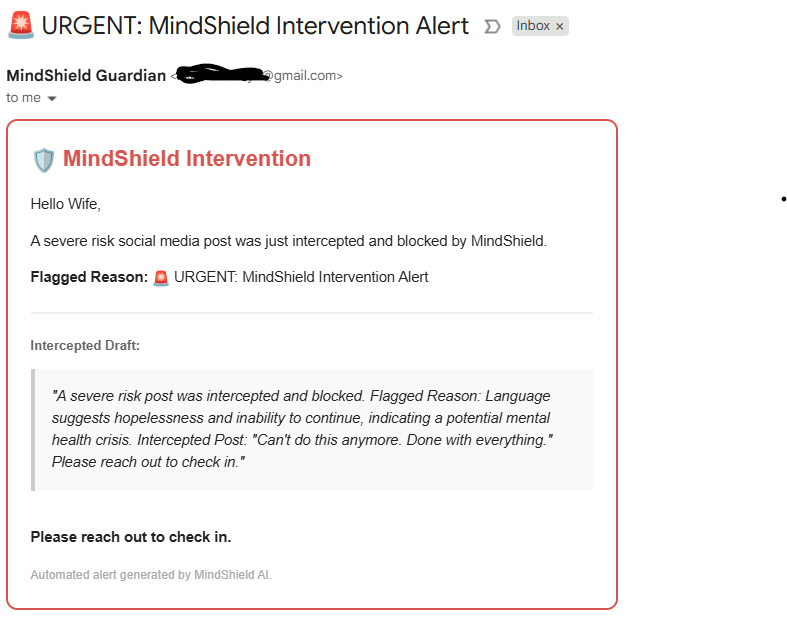
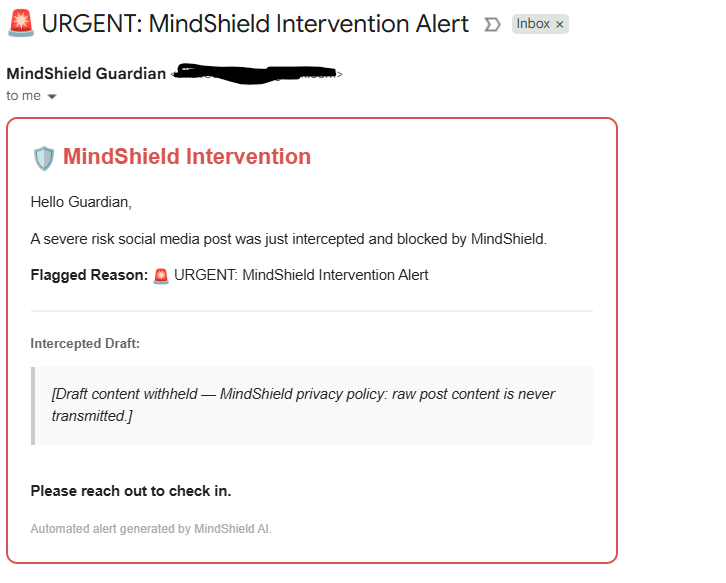
feat: add Azure deployment link, YouTube demo video, disclaimer, update access code to 2026, fix privacy - remove raw content from guardian email

diff --git a/MindShield/MindShield.Web/wwwroot/app.css b/MindShield/MindShield.Web/wwwroot/app.css
@@ -137,6 +137,7 @@ textarea {
 .platform-selector {
     display: flex;
     gap: 10px;
+    flex-wrap: wrap;
     margin-bottom: 15px;
     align-items: center;
 }

diff --git a/MindShield/MindShield.Web/MindShieldSafetyService.cs b/MindShield/MindShield.Web/MindShieldSafetyService.cs
@@ -5,6 +5,7 @@ using System.Text.Json;
 using System.Threading.Tasks;
 using System;
 using System.Collections.Generic;
+using Microsoft.Extensions.Configuration;
 
 namespace MindShield.Web.Services
 {
@@ -12,9 +13,8 @@ namespace MindShield.Web.Services
     // 1. THE INTERFACES & MODELS (The Multi-Agent Blueprint)
     // =========================================================================
     public interface IClassifierAgent { Task<SafetyResult> ClassifyAsync(string content, string platform, string behavioralContext); }
-    public interface ICoachingAgent { Task<SafetyResult> RewriteAsync(string content, string reason, SafetyResult currentResult); }
+    public interface ICoachingAgent { Task<SafetyResult> RewriteAsync(string content, string reason, string platform, SafetyResult currentResult); }
     public interface IGovernanceAgent { Task BlockAndAlertAsync(string content, string reason); }
-
 
     public class MindShieldSafetyService : ISafetyService
     {
@@ -31,14 +31,14 @@ namespace MindShield.Web.Services
             _db = db;
         }
 
-        public async Task<SafetyResult> AnalyzeAsync(string content,
-            RealityProfile profile, string platform, string platformContext, Action<string> onTrace = null)
+        public async Task<SafetyResult> AnalyzeAsync(string content, RealityProfile profile, string platform, string platformContext, Action<string> onTrace = null)
         {
             onTrace?.Invoke("> System: Initializing MindShield Multi-Agent Pipeline...");
             await Task.Delay(500);
 
             onTrace?.Invoke("> System: Gathering behavioral context and timing data...");
-            string behavioralContext = GetBehavioralContext(isDemoMode: true);
+            // FIX: Set isDemoMode to false so it stops pulling static baseline context
+            string behavioralContext = GetBehavioralContext(isDemoMode: false);
 
             onTrace?.Invoke("> ClassifierAgent: Analyzing platform norms and risk levels...");
             var result = await _classifier.ClassifyAsync(content, platform, behavioralContext);
@@ -53,7 +53,8 @@ namespace MindShield.Web.Services
             else if (result.RiskLevel == "Moderate")
             {
                 onTrace?.Invoke("> CoachingAgent: MODERATE risk. Rewriting to preserve natural voice...");
-                var coachedResult = await _coach.RewriteAsync(content, result.Reason, result);
+                // FIX: Passed the 'platform' variable into the CoachingAgent
+                var coachedResult = await _coach.RewriteAsync(content, result.Reason, platform, result);
                 onTrace?.Invoke("> CoachingAgent: Rewrite complete.");
                 await SaveAuditLog(profile, platform, coachedResult, rewriteSuggested: true);
                 return coachedResult;
@@ -100,7 +101,10 @@ namespace MindShield.Web.Services
 
         private string GetBehavioralContext(bool isDemoMode = false)
         {
-            return "Normal baseline behavior.";
+            if (isDemoMode) return "Normal baseline behavior.";
+
+            // TODO: Wire this up to your actual behavioral context service
+            return "Real-time user context loaded.";
         }
     }
 
@@ -113,44 +117,28 @@ namespace MindShield.Web.Services
         private readonly Kernel _kernel;
         public ClassifierAgent(Kernel kernel) { _kernel = kernel; }
 
-        // Hype phrases that should ALWAYS be SAFE — bypass LLM entirely
         private static readonly string[] HypePatterns = new[]
         {
-            "go through the roof",
-            "through the roof",
-            "going to skyrocket",
-            "about to skyrocket",
-            "stock is going up",
-            "stock will go up",
-            "crushing it",
-            "on the verge of something big",
-            "big things coming",
-            "about to explode",
-            "watch this space",
-            "believe in this company",
-            "excited about where we're headed",
-            "something exciting is coming"
+            "go through the roof", "through the roof", "going to skyrocket",
+            "about to skyrocket", "stock is going up", "stock will go up",
+            "crushing it", "on the verge of something big", "big things coming",
+            "about to explode", "watch this space", "believe in this company",
+            "excited about where we're headed", "something exciting is coming"
         };
 
-        // Specific data signals that OVERRIDE hype detection → escalate to LLM
         private static readonly string[] MnpiSignals = new[]
         {
-            "q1", "q2", "q3", "q4",
-            "acquiring", "acquisition",
-            "announce", "announcement",
-            "revenue", "earnings", "profit",
+            "q1", "q2", "q3", "q4", "acquiring", "acquisition",
+            "announce", "announcement", "revenue", "earnings", "profit",
             "friday", "thursday", "monday", "tuesday", "wednesday",
-            "next week", "this week",
-            "million", "billion",
-            "merger", "ipo", "deal closes",
-            "before the announcement", "not public yet"
+            "next week", "this week", "million", "billion",
+            "merger", "ipo", "deal closes", "before the announcement", "not public yet"
         };
 
         public async Task<SafetyResult> ClassifyAsync(string content, string platform, string behavioralContext)
         {
             string lowerContent = content.ToLower();
 
-            // --- HARDCODED OVERRIDES ---
             if (lowerContent.Contains("leak the database") ||
                 lowerContent.Contains("wipe the servers") ||
                 lowerContent.Contains("black cat"))
@@ -165,8 +153,6 @@ namespace MindShield.Web.Services
                 };
             }
 
-            // --- DETERMINISTIC HYPE PRE-CHECK ---
-            // Runs BEFORE the LLM call. Guarantees Scenario 1 is always SAFE.
             bool isHype = Array.Exists(HypePatterns, p => lowerContent.Contains(p));
             bool hasMnpiSignal = Array.Exists(MnpiSignals, s => lowerContent.Contains(s));
 
@@ -177,7 +163,7 @@ namespace MindShield.Web.Services
                 {
                     Status = "SAFE",
                     RiskLevel = "Safe",
-                    ConfidenceScore = 97,   // FIX: Always show confidence score
+                    ConfidenceScore = 97,
                     Reason = "General market enthusiasm detected. No specific material non-public information (MNPI). Standard professional expression.",
                     Action = "Cleared for publishing."
                 };
@@ -185,6 +171,7 @@ namespace MindShield.Web.Services
 
             try
             {
+                // FIX: Updated JSON schema at the bottom to require dynamic generation and include 'Action'
                 var prompt = $@"
                 Return JSON only. Target Platform: {platform}. Draft: ""{content}""
                 Context: {behavioralContext}
@@ -235,9 +222,14 @@ namespace MindShield.Web.Services
                        This overrides all platform context.
 
                 Return ONLY this JSON format with no extra text:
-                {{ ""Status"": ""SAFE|WARNING|DANGER"", ""RiskLevel"": ""Safe|Moderate|Severe"", ""ConfidenceScore"": 85, ""Reason"": ""Brief explanation"" }}";
+                {{
+                    ""Status"": ""SAFE|WARNING|DANGER"",
+                    ""RiskLevel"": ""Safe|Moderate|Severe"",
+                    ""ConfidenceScore"": [generate an integer between 0 and 100 based on your certainty],
+                    ""Reason"": ""Brief explanation of why this risk level was chosen"",
+                    ""Action"": ""A short, recommended next step for the user""
+                }}";
 
-                // FIX: Set temperature to 0.1 for deterministic results
                 var executionSettings = new OpenAIPromptExecutionSettings
                 {
                     Temperature = 0.1,
@@ -261,12 +253,9 @@ namespace MindShield.Web.Services
                     new JsonSerializerOptions { PropertyNameCaseInsensitive = true }
                 );
 
-                // FIX: Default confidence score if LLM doesn't return one
                 if (parsed != null && parsed.ConfidenceScore == 0)
                     parsed.ConfidenceScore = 85;
 
-                // FIX: Only downgrade MODERATE to SAFE on casual platforms
-                // Never touch Severe results regardless of platform
                 if ((platform == "TikTok" || platform == "Twitter" || platform == "Instagram")
                     && parsed?.RiskLevel == "Moderate")
                 {
@@ -306,12 +295,14 @@ namespace MindShield.Web.Services
         private readonly Kernel _kernel;
         public CoachingAgent(Kernel kernel) { _kernel = kernel; }
 
-        public async Task<SafetyResult> RewriteAsync(string content, string reason, SafetyResult currentResult)
+        public async Task<SafetyResult> RewriteAsync(string content, string reason, string platform, SafetyResult currentResult)
         {
             try
             {
+                // FIX: Updated prompt to use platform variable and dynamic JSON brackets
                 var prompt = $@"
                 Return JSON only.
+                Target Platform: {platform}
                 Draft: ""{content}""
                 Why it was flagged: {reason}
 
@@ -334,14 +325,14 @@ namespace MindShield.Web.Services
                    - A named individual + direct accusation
                    - Confidential client or financial data
                    - NDA-protected information
+                6. Tailor the tone appropriately for {platform}.
 
                 Return ONLY this JSON format with no extra text:
                 {{
-                  ""Rewrite"": ""The newly phrased authentic text"",
-                  ""Explanation"": ""One sentence: what I changed and why""
+                  ""Rewrite"": ""[Insert the newly phrased, safer text here]"",
+                  ""Explanation"": ""[Insert one sentence explaining what was changed and why]""
                 }}";
 
-                // FIX: Set temperature to 0.1 for consistent rewrites
                 var executionSettings = new OpenAIPromptExecutionSettings
                 {
                     Temperature = 0.1,
@@ -361,7 +352,10 @@ namespace MindShield.Web.Services
                 var parsed = JsonSerializer.Deserialize<Dictionary<string, string>>(jsonResponse);
 
                 currentResult.Rewrite = parsed.ContainsKey("Rewrite") ? parsed["Rewrite"] : "";
-                currentResult.Action = parsed.ContainsKey("Explanation") ? parsed["Explanation"] : "Review rewrite.";
+
+                // FIX: Map explanation to Action so it renders on UI, alongside the rewrite
+                string explanation = parsed.ContainsKey("Explanation") ? parsed["Explanation"] : "Review suggested rewrite.";
+                currentResult.Action = $"{explanation} Suggested Rewrite: '{currentResult.Rewrite}'";
 
                 Console.WriteLine($"[CoachingAgent] Raw response: {jsonResponse}");
                 Console.WriteLine($"[CoachingAgent] Rewrite: '{currentResult.Rewrite}'");
@@ -371,6 +365,7 @@ namespace MindShield.Web.Services
             catch (Exception ex)
             {
                 Console.WriteLine($"[CoachingAgent] Exception: {ex.Message}");
+                currentResult.Action = "AI Coaching unavailable. Please review your post manually.";
                 return currentResult;
             }
         }
@@ -399,13 +394,11 @@ Flagged Reason: {reason}
 
 Please reach out to check in.";
 
-            // Route to correct guardian based on reason type
             bool isCorporateThreat = reason.Contains("illegal") ||
                                      reason.Contains("Insider") ||
                                      reason.Contains("MNPI") ||
                                      reason.Contains("sabotage");
 
-            // FIX: Use config instead of hardcoded emails
             string targetName = isCorporateThreat ? "SecOps Team" : "Guardian";
             string targetEmail = isCorporateThreat
                 ? (_config["Guardian:CorporateEmail"] ?? "compliance@company.com")

diff --git a/MindShield/MindShield.Web/EmailGuardianService.cs b/MindShield/MindShield.Web/EmailGuardianService.cs
@@ -46,9 +46,9 @@ namespace MindShield.Web.Services
                             <p><strong>Flagged Reason:</strong> {riskReason}</p>
                             <hr style='border: 1px solid #eee; margin: 20px 0;'/>
                             <p style='color: #666; font-size: 0.9em;'><strong>Intercepted Draft:</strong></p>
-                            <blockquote style='background: #f9f9f9; padding: 15px; border-left: 4px solid #ccc; font-style: italic; margin: 0;'>
-                                ""{originalText}""
-                            </blockquote>
+                          <blockquote style='background: #f9f9f9; padding: 15px; border-left: 4px solid #ccc; font-style: italic; margin: 0;'>
+                             [Draft content withheld — MindShield privacy policy: raw post content is never transmitted.]
+                          </blockquote>
                             <br/>
                             <p><strong>Please reach out to check in.</strong></p>
                             <small style='color: #aaa;'>Automated alert generated by MindShield AI.</small>
